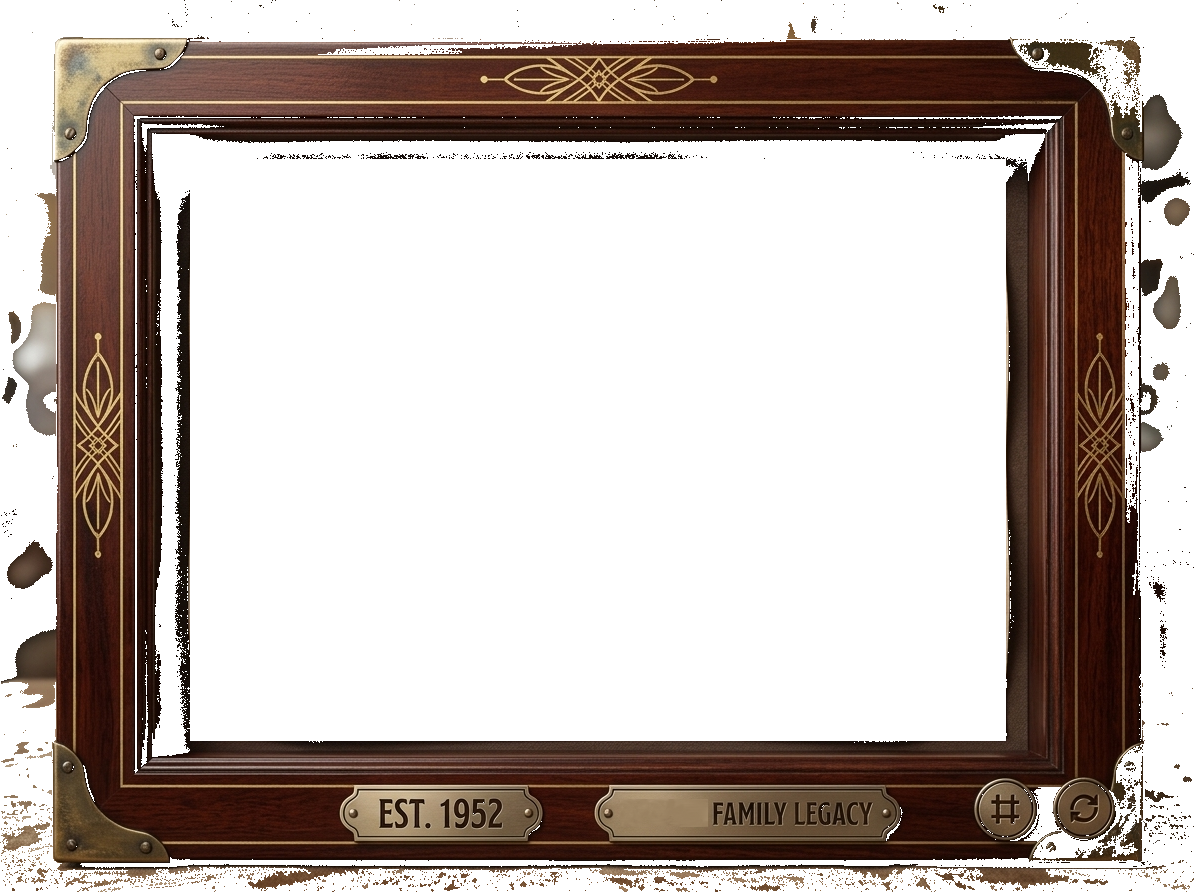
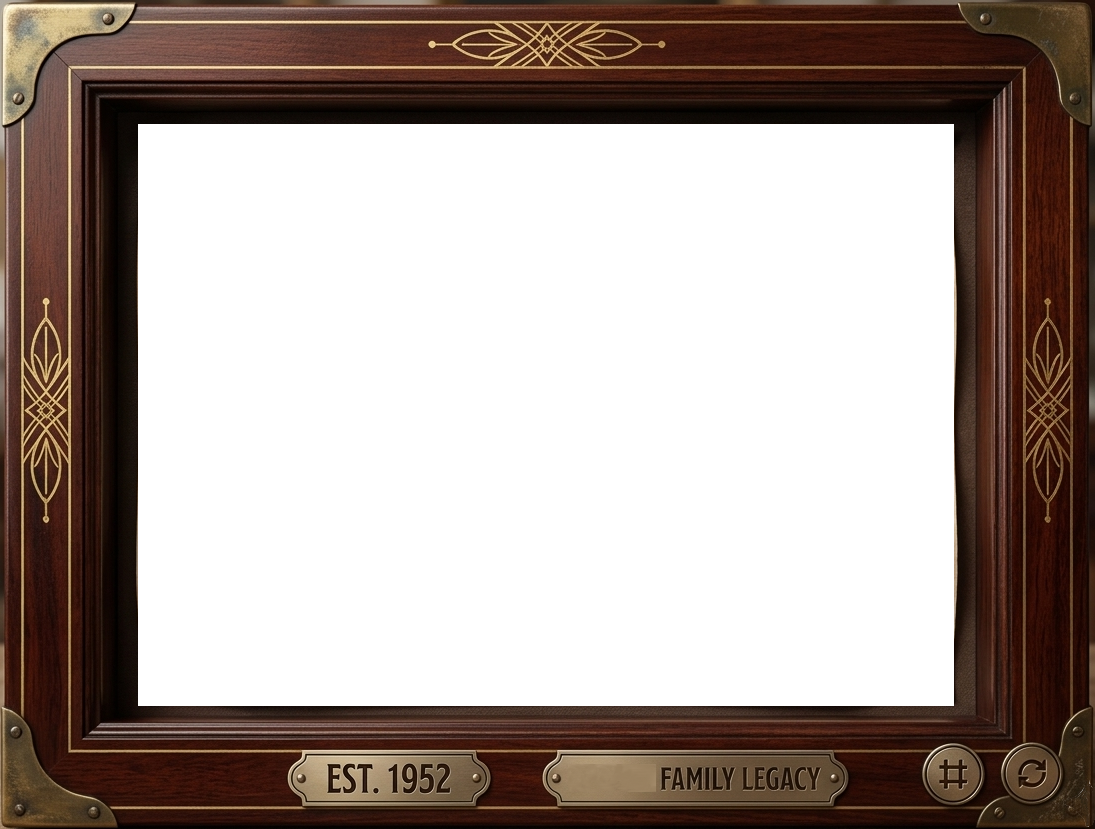
fix(dashboard): process vintage frame from white-bg export
Remove white canvas and opening via prepare script, crop to frame bounds, and sync inset (12.6/12.9/15/14.8%).

diff --git a/app/components/PhotoFrames.tsx b/app/components/PhotoFrames.tsx
@@ -49,9 +49,9 @@ export const MODERN_FRAME_INSET_CLASS =
 export const MODERN_WOOD_LANDSCAPE_SRC =
   '/photo-frames/modern-wood-landscape.png';
 
-/** vintage-frame-landscape.png (배경 크롭 후) 사진 구역 inset — scripts/prepare-vintage-frame.mjs / 원본 실측 */
+/** vintage-frame-landscape.png (흰 배경 export → prepare-vintage-frame.mjs) */
 export const VINTAGE_FRAME_INSET_CLASS =
-  'left-[16%] right-[15.9%] top-[18%] bottom-[17.1%]';
+  'left-[12.6%] right-[12.9%] top-[15%] bottom-[14.8%]';
 
 export const VINTAGE_FRAME_LANDSCAPE_SRC =
   '/photo-frames/vintage-frame-landscape.png';